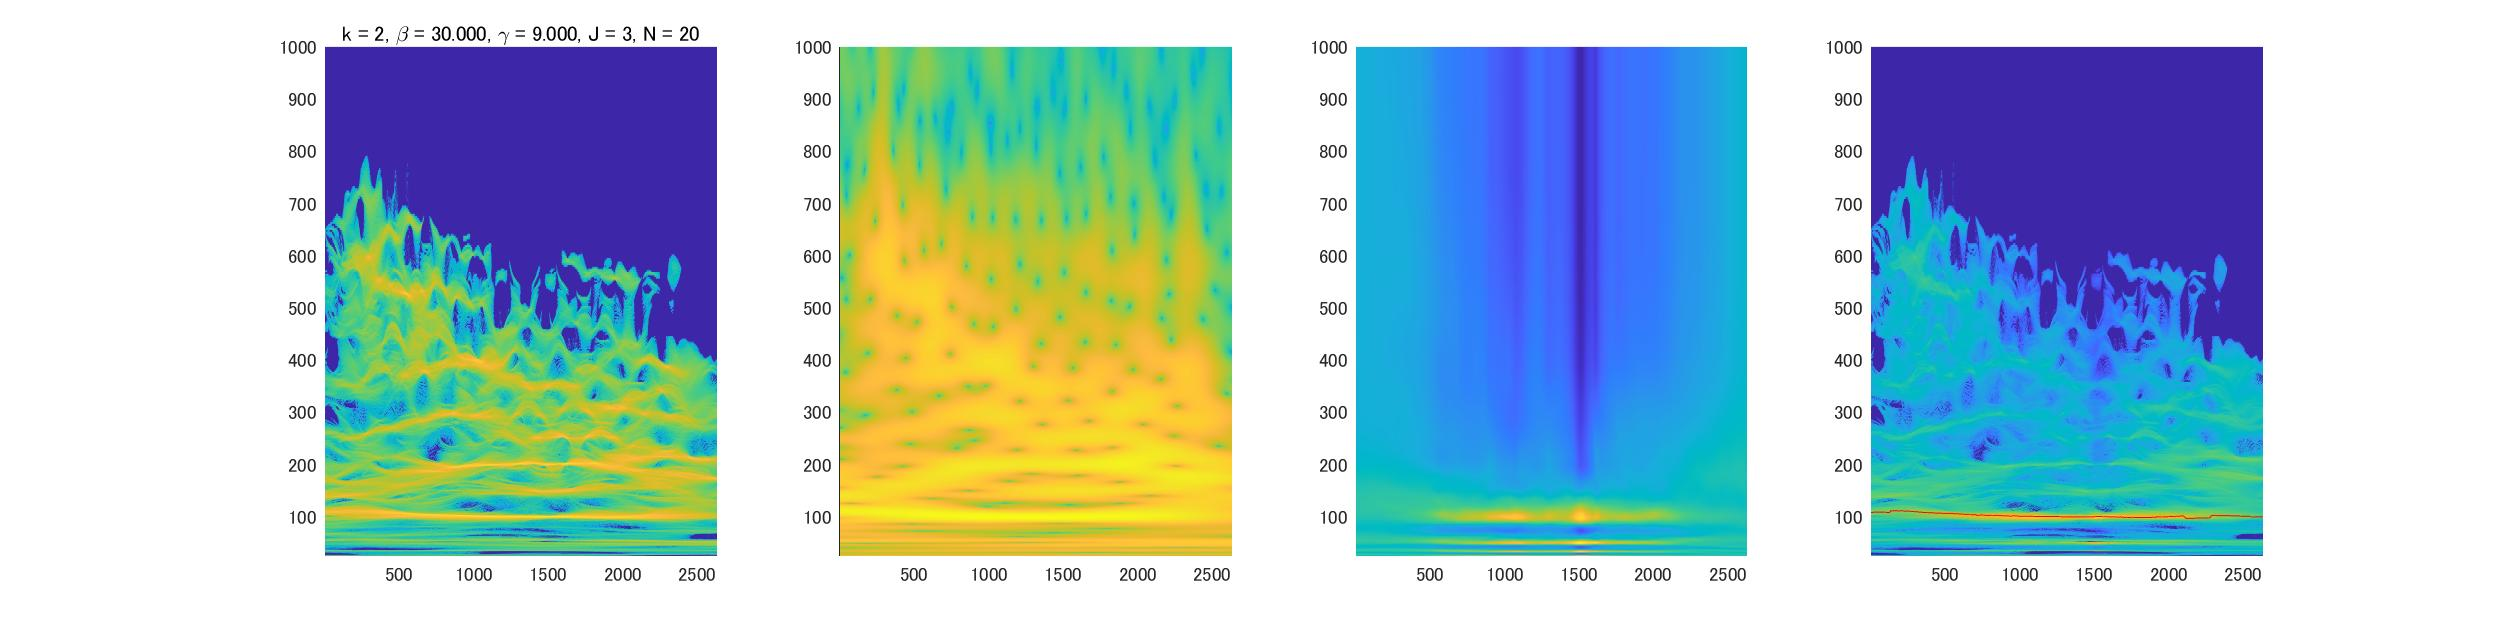
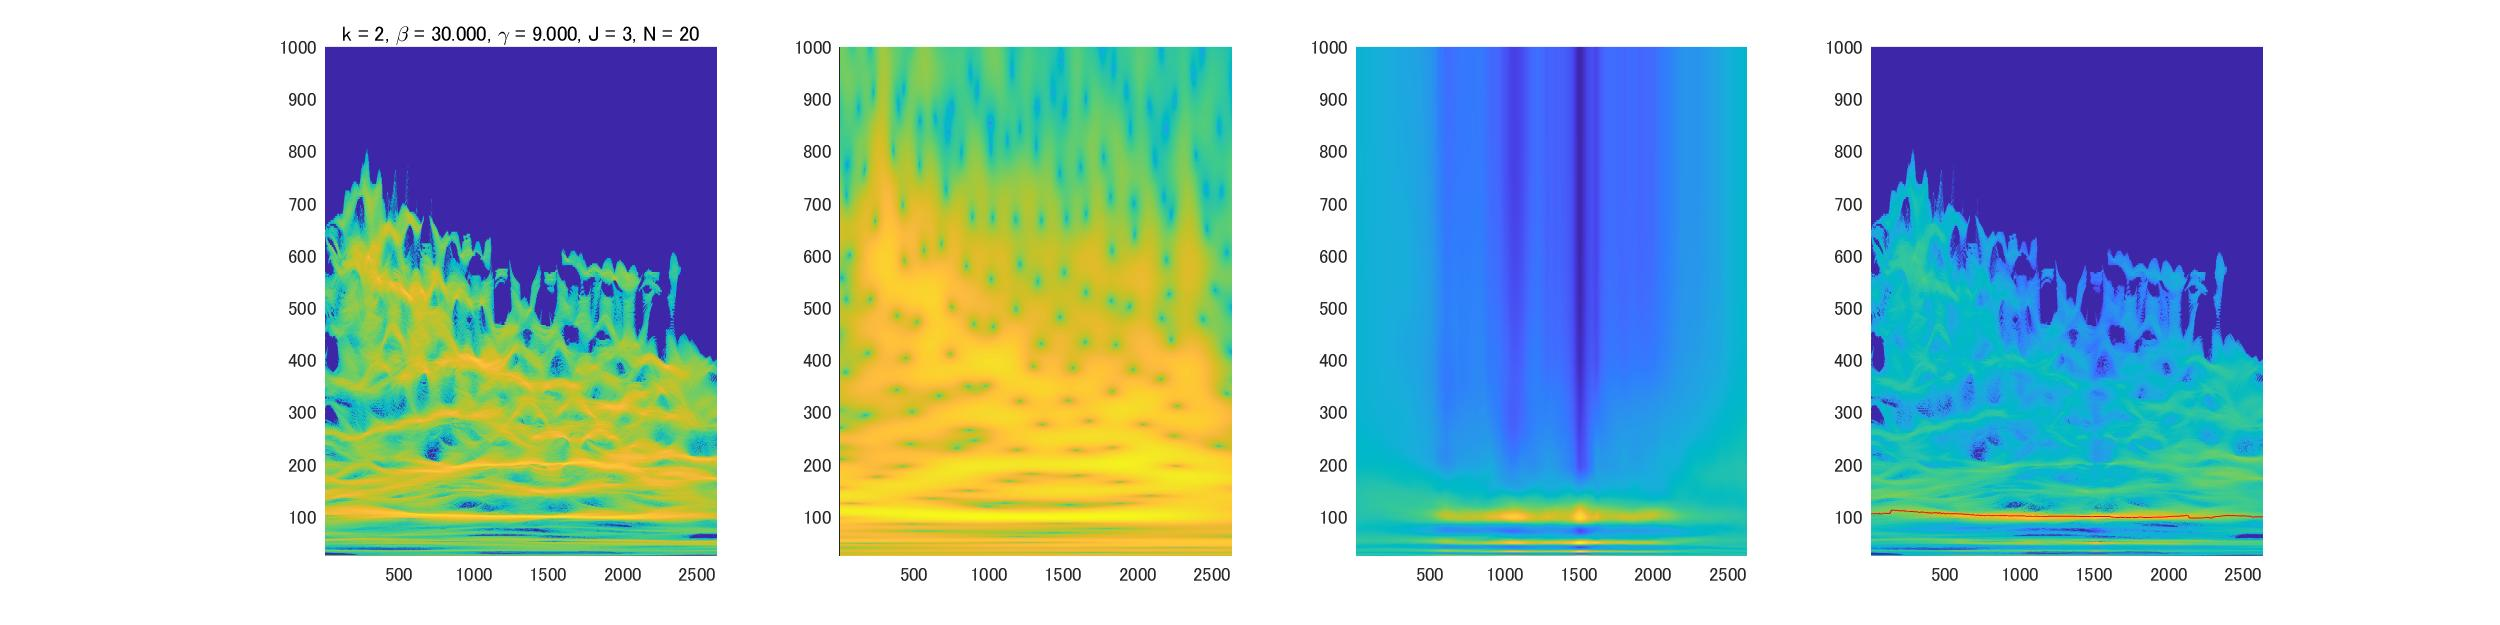
Add existing file

diff --git a/analysis01.m b/analysis01.m
@@ -45,8 +45,9 @@ offset = ceil(L_integer/2);
 
 oct = log2(frange(end)/frange(1));
 F = frange(1).*2.^((0:(oct*voice))'./voice);
+q = 8;
 
-for k=1:size(segment, 1)
+for k=61:size(segment, 1)
     % ConceFT
     z = s(segment(k, 1) - offset:segment(k, 2) + offset);
     [W, T, E_Omg] = h_conceFT(z', be, gam, frange, voice, fs, J, N);
@@ -55,9 +56,9 @@ for k=1:size(segment, 1)
     E_Omg = E_Omg(:, 1 + offset:end - offset);
     
     % De-shape
-    U = h_gausscorr(abs(T).^2, voice);
+    U = h_gausscorr(abs(T), voice);
     U = U./max(abs(U(:)));
-    D = abs(T).*2.*exp(5.*U);
+    D = abs(T).*2.*exp(q.*U);
     
     % Viterbi
     V = D;
